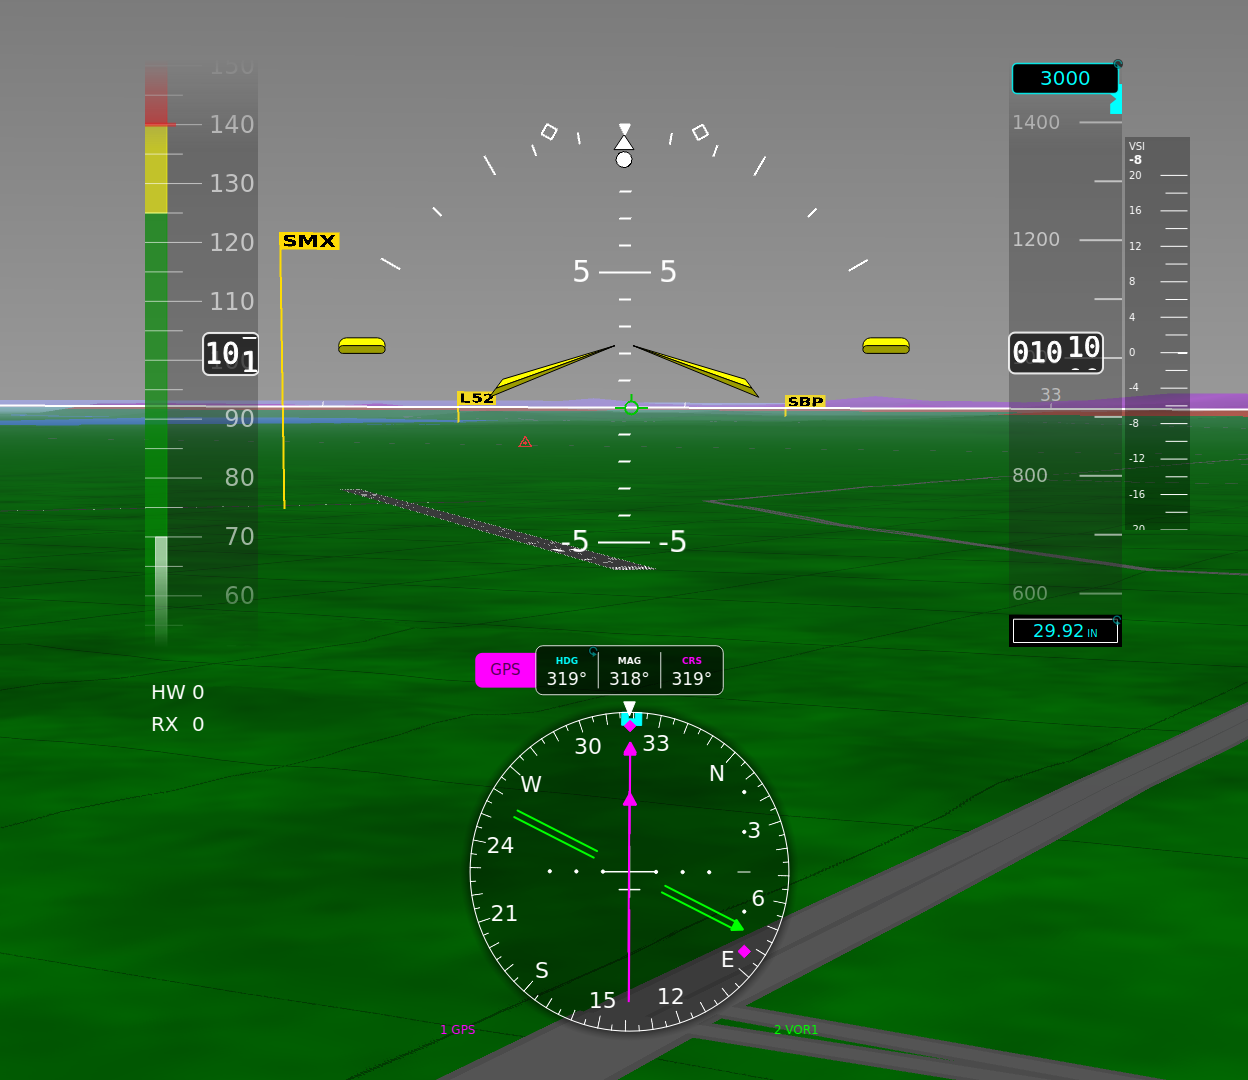
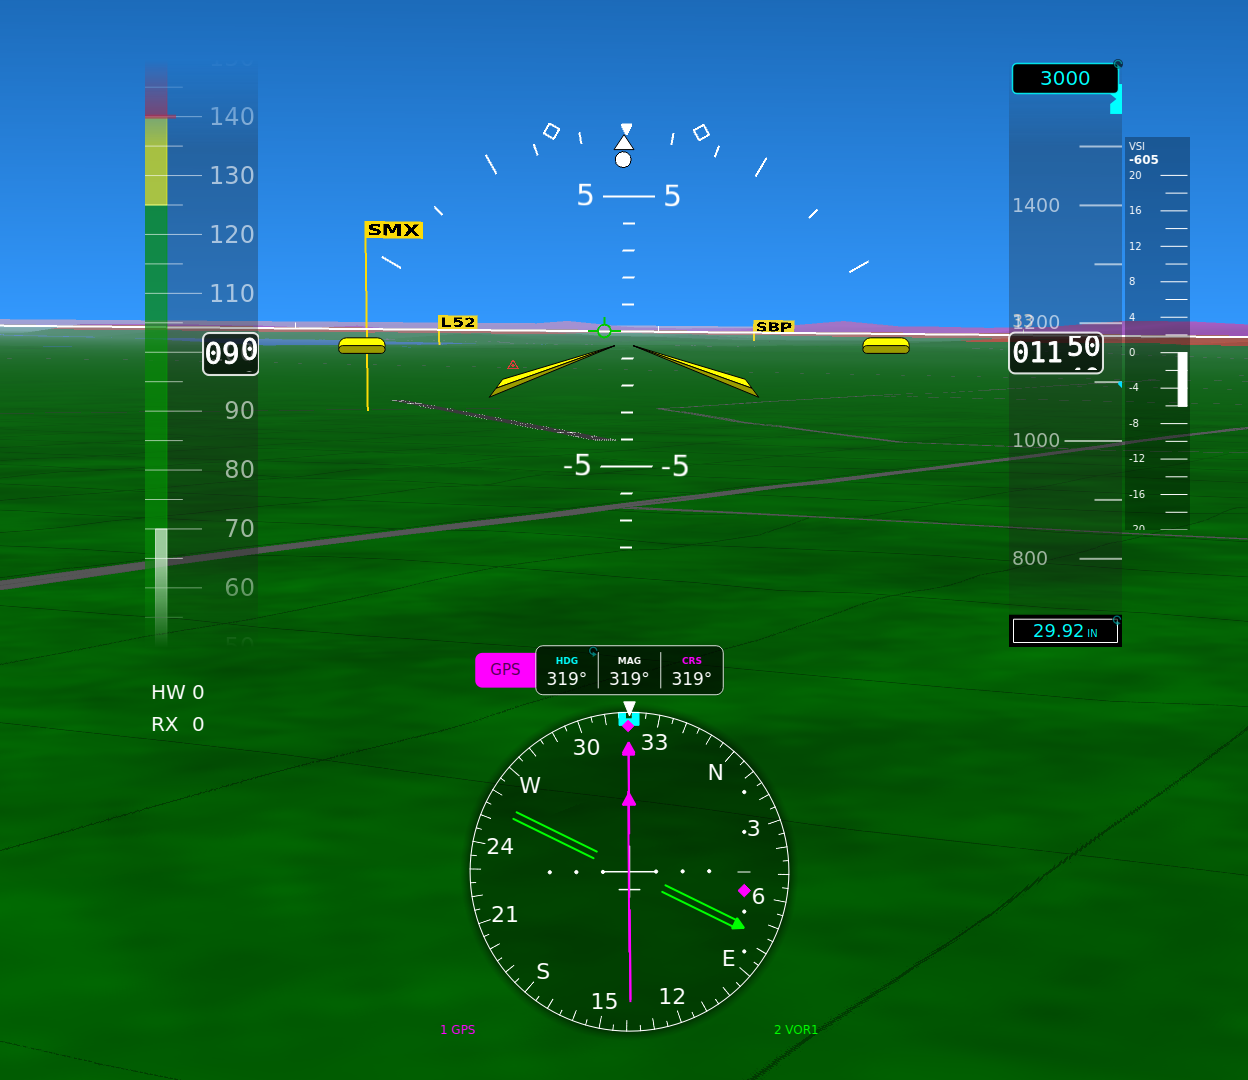
docs(wiki): blue-sky bench captures for the panel, attitude and air-data pages
Re-flown on sim-bench session a9055711e732 after the bench began sending
ALAT, so the attitude inputs are fresh and the sky draws blue. Same file
names, same scenes; captions re-read from the new frames. Drops the
attitude page's grey-sky note and points the READMEs at the new frames and
the flight's event log.

diff --git a/docs/images/tapes/README.md b/docs/images/tapes/README.md
@@ -4,31 +4,27 @@ For [Airspeed, Altitude and Vertical Speed](../../wiki/Airspeed-Altitude-and-Ver
 
 | File | Source frame | Crop box | Scale |
 |---|---|---|---|
-| `bench_airspeed_tape.png` | `052133_chg_FPLACTLEG_WPNAME_WINCH.png` | (130, 50, 270, 660) | 2, nearest-neighbour |
-| `bench_altitude_climb.png` | `052133_chg_FPLACTLEG_WPNAME_WINCH.png` | (1000, 50, 1200, 660) | 2, nearest-neighbour |
-| `bench_altitude_altsel_departed.png` | `053037_tick.png` | (1000, 50, 1200, 660) | 2, nearest-neighbour |
+| `bench_airspeed_tape.png` | `105321_chg_FPLACTLEG_WPNAME_WINCH.png` | (130, 50, 270, 660) | 2, nearest-neighbour |
+| `bench_altitude_climb.png` | `105321_chg_FPLACTLEG_WPNAME_WINCH.png` | (1000, 50, 1200, 660) | 2, nearest-neighbour |
+| `bench_altitude_altsel_departed.png` | `110201_tick.png` | (1000, 50, 1200, 660) | 2, nearest-neighbour |
 
 The page also uses two existing rendered sets, with their own READMEs: [`../aer3915_altsel/`](../aer3915_altsel/) and [`../aer3914_baro_box/`](../aer3914_baro_box/).
 
 ## Where they came from
 
 Every picture is cropped from a full-screen grab of the simulator bench (the
-Beelink, X11, 1920 x 1080) during sim-bench session `8f9eb80b0daa` on
-2026-11-07, 05:11-05:33 UTC. The bench was flying the KSMX RNAV (GPS) RWY 30
+Beelink, X11, 1920 x 1080) during sim-bench session `a9055711e732` on
+2026-11-07, 10:44-11:05 UTC. The bench was flying the KSMX RNAV (GPS) RWY 30
 with its missed approach and the WINCH hold, on pyEFIS `dev` at `4c4f4dc` (the same code as `980497e`) with
-its configurator panel (`screens/managed.yaml`). The follower that took the
-grabs, its event log and the FIX keys logged at every grab are in
-[`../hsi/bench_flight/`](../hsi/bench_flight/); the source frame names below are
-the names in its `keys.jsonl`.
+its configurator panel (`screens/managed.yaml`). The grabs were taken by
+[`../hsi/bench_flight/docs_flight.py`](../hsi/bench_flight/docs_flight.py), run
+with that session id and the sim-bench service URL. Its event log is
+[`../hsi/bench_flight/flight2_events.log`](../hsi/bench_flight/flight2_events.log); the source frame names below are the
+names it gave each grab.
 
-The grabs used `ffmpeg -f x11grab`. About half of that night's frames show the
+The grabs used `ffmpeg -f x11grab`. Some of these grabs can show the
 previous grab's state, so every caption is read from the picture's own
 readouts, never from the logged keys.
-
-**Grey sky.** In every frame the sky is grey, not blue. The bench's X-Plane
-connection does not send `ALAT`, so that attitude input stays flagged old, and
-pyEFIS greys the sky while any attitude input is old or bad
-(`src/pyefis/instruments/ai/ai_widget.py:586-590`).
 
 ## Regenerate
 

diff --git a/docs/images/attitude/README.md b/docs/images/attitude/README.md
@@ -4,29 +4,25 @@ For [Attitude and Synthetic Vision](../../wiki/Attitude-and-Synthetic-Vision.md)
 
 | File | Source frame | Crop box | Scale |
 |---|---|---|---|
-| `bench_turn_over_water.png` | `053037_tick.png` | (0, 0, 1248, 1080) | 1 |
-| `bench_terrain_clearance.png` | `051503_tick.png` | (0, 0, 1248, 1080) | 1 |
-| `bench_final_runway.png` | `051744_tick.png` | (0, 0, 1248, 1080) | 1 |
+| `bench_turn_over_water.png` | `110201_tick.png` | (0, 0, 1248, 1080) | 1 |
+| `bench_terrain_clearance.png` | `104649_tick.png` | (0, 0, 1248, 1080) | 1 |
+| `bench_final_runway.png` | `104930_tick.png` | (0, 0, 1248, 1080) | 1 |
 
 ## Where they came from
 
 Every picture is cropped from a full-screen grab of the simulator bench (the
-Beelink, X11, 1920 x 1080) during sim-bench session `8f9eb80b0daa` on
-2026-11-07, 05:11-05:33 UTC. The bench was flying the KSMX RNAV (GPS) RWY 30
+Beelink, X11, 1920 x 1080) during sim-bench session `a9055711e732` on
+2026-11-07, 10:44-11:05 UTC. The bench was flying the KSMX RNAV (GPS) RWY 30
 with its missed approach and the WINCH hold, on pyEFIS `dev` at `4c4f4dc` (the same code as `980497e`) with
-its configurator panel (`screens/managed.yaml`). The follower that took the
-grabs, its event log and the FIX keys logged at every grab are in
-[`../hsi/bench_flight/`](../hsi/bench_flight/); the source frame names below are
-the names in its `keys.jsonl`.
+its configurator panel (`screens/managed.yaml`). The grabs were taken by
+[`../hsi/bench_flight/docs_flight.py`](../hsi/bench_flight/docs_flight.py), run
+with that session id and the sim-bench service URL. Its event log is
+[`../hsi/bench_flight/flight2_events.log`](../hsi/bench_flight/flight2_events.log); the source frame names below are the
+names it gave each grab.
 
-The grabs used `ffmpeg -f x11grab`. About half of that night's frames show the
+The grabs used `ffmpeg -f x11grab`. Some of these grabs can show the
 previous grab's state, so every caption is read from the picture's own
 readouts, never from the logged keys.
-
-**Grey sky.** In every frame the sky is grey, not blue. The bench's X-Plane
-connection does not send `ALAT`, so that attitude input stays flagged old, and
-pyEFIS greys the sky while any attitude input is old or bad
-(`src/pyefis/instruments/ai/ai_widget.py:586-590`).
 
 ## Regenerate
 

diff --git a/docs/wiki/Attitude-and-Synthetic-Vision.md b/docs/wiki/Attitude-and-Synthetic-Vision.md
@@ -8,12 +8,6 @@ terrain is `atitude_indicator`.
 
 ![The bench in a left turn in the WINCH hold, over the sea at about 4,000 ft: pitch ladder and bank scale tilted, the garmin aircraft symbol, standard-rate marks on the bank arc, the coastline and terrain beyond, and the 33 heading mark on the horizon](../images/attitude/bench_turn_over_water.png)
 
-**Every bench picture on this page has a grey sky.** The simulator bench does
-not send lateral acceleration (`ALAT`) to fix-gateway, so that input stays
-flagged old, and pyEFIS greys the sky while any attitude input is old or bad
-(see [When data is missing](#when-data-is-missing)). With all inputs good, the
-sky is a blue gradient.
-
 ## Reading it
 
 | Element | What it shows |
@@ -48,7 +42,7 @@ against groundspeed). Sideways, it shows drift: track against heading.
 
 The terrain ahead is coloured by how far it is below you.
 
-![The bench on the RNAV 30 approach to KSMX at about 2,100 ft: most of the terrain ahead is red, because the bench panel sets its warning band to 1,500 ft of clearance. Airport flags for SMX, L52 and SBP stand on the horizon](../images/attitude/bench_terrain_clearance.png)
+![The bench on the RNAV 30 approach to KSMX at about 2,200 ft: most of the terrain ahead is red, because the bench panel sets its warning band to 1,500 ft of clearance. Airport flags for L52 and SMX stand on the horizon](../images/attitude/bench_terrain_clearance.png)
 
 | Colour | Terrain is |
 |---|---|
@@ -67,7 +61,7 @@ elevation is drawn green, so a normal approach does not paint the whole pattern
 red. Terrain higher than that keeps its amber and red, and magenta always
 shows.
 
-![The bench near the missed approach point at KSMX, about 1,000 ft: within 5 nm of the field the low terrain is green, the runway is drawn to true size, and a road runs across the foreground](../images/attitude/bench_final_runway.png)
+![The bench near the missed approach point at KSMX, descending through about 1,150 ft: within 5 nm of the field the low terrain is green, the runway is drawn to true size, and a road runs across the foreground](../images/attitude/bench_final_runway.png)
 
 **What else is drawn**, each from its own navdata pack:
 

diff --git a/docs/images/panel/README.md b/docs/images/panel/README.md
@@ -4,27 +4,23 @@ For [The Panel at a Glance](../../wiki/The-Panel-at-a-Glance.md).
 
 | File | Source frame | Crop box | Scale |
 |---|---|---|---|
-| `bench_panel_climb.png` | `052133_chg_FPLACTLEG_WPNAME_WINCH.png` | full frame | 1 |
+| `bench_panel_climb.png` | `105321_chg_FPLACTLEG_WPNAME_WINCH.png` | full frame | 1 |
 
 ## Where they came from
 
 Every picture is cropped from a full-screen grab of the simulator bench (the
-Beelink, X11, 1920 x 1080) during sim-bench session `8f9eb80b0daa` on
-2026-11-07, 05:11-05:33 UTC. The bench was flying the KSMX RNAV (GPS) RWY 30
+Beelink, X11, 1920 x 1080) during sim-bench session `a9055711e732` on
+2026-11-07, 10:44-11:05 UTC. The bench was flying the KSMX RNAV (GPS) RWY 30
 with its missed approach and the WINCH hold, on pyEFIS `dev` at `4c4f4dc` (the same code as `980497e`) with
-its configurator panel (`screens/managed.yaml`). The follower that took the
-grabs, its event log and the FIX keys logged at every grab are in
-[`../hsi/bench_flight/`](../hsi/bench_flight/); the source frame names below are
-the names in its `keys.jsonl`.
+its configurator panel (`screens/managed.yaml`). The grabs were taken by
+[`../hsi/bench_flight/docs_flight.py`](../hsi/bench_flight/docs_flight.py), run
+with that session id and the sim-bench service URL. Its event log is
+[`../hsi/bench_flight/flight2_events.log`](../hsi/bench_flight/flight2_events.log); the source frame names below are the
+names it gave each grab.
 
-The grabs used `ffmpeg -f x11grab`. About half of that night's frames show the
+The grabs used `ffmpeg -f x11grab`. Some of these grabs can show the
 previous grab's state, so every caption is read from the picture's own
 readouts, never from the logged keys.
-
-**Grey sky.** In every frame the sky is grey, not blue. The bench's X-Plane
-connection does not send `ALAT`, so that attitude input stays flagged old, and
-pyEFIS greys the sky while any attitude input is old or bad
-(`src/pyefis/instruments/ai/ai_widget.py:586-590`).
 
 ## Regenerate
 

diff --git a/docs/wiki/Airspeed-Altitude-and-Vertical-Speed.md b/docs/wiki/Airspeed-Altitude-and-Vertical-Speed.md
@@ -5,7 +5,7 @@ and an altitude tape on the right, with a vertical speed scale beside the
 altitude tape. Their instrument types are `airspeed_tape`, `altimeter_tape`
 and `altimeter_trend_tape`.
 
-![The bench's airspeed tape (left) and altitude tape with VSI (right), climbing out at about 95 kt and 600 ft/min, 2x nearest-neighbour. The selected altitude is 3000 at the top of the altitude tape, with its cyan bug at 3000 on the scale; the altimeter setting is 29.92 at the bottom](../images/tapes/bench_airspeed_tape.png) ![The bench's altitude tape and VSI in the same climb, 2x nearest-neighbour](../images/tapes/bench_altitude_climb.png)
+![The bench's airspeed tape (left) and altitude tape with VSI (right), climbing out at about 95 kt and 640 ft/min, 2x nearest-neighbour. The selected altitude is 3000 at the top of the altitude tape, with its cyan bug at 3000 on the scale; the altimeter setting is 29.92 at the bottom](../images/tapes/bench_airspeed_tape.png) ![The bench's altitude tape and VSI in the same climb, 2x nearest-neighbour](../images/tapes/bench_altitude_climb.png)
 
 Both tapes scroll behind a fixed readout box. The pictures are from the
 simulator bench; its panel sets **Fade tape edges** on, so the scales fade into
@@ -120,7 +120,7 @@ already shows `BARO`, the tape leaves its box off.
 
 The scale beside the altitude tape shows vertical speed, `VS`, in ft/min. A
 white bar grows from zero to the present rate. The number under the `VSI` label
-at the top is the rate itself: `602` in the climb picture above. Scale labels
+at the top is the rate itself: `638` in the climb picture above. Scale labels
 are in hundreds, so `20` is 2,000 ft/min.
 
 **Range** sets full scale up and down: 2,500 ft/min by default, 2,000 on the

diff --git a/docs/wiki/The-Panel-at-a-Glance.md b/docs/wiki/The-Panel-at-a-Glance.md
@@ -9,7 +9,7 @@ knob. The instruments each have their own page, linked below.
 > instruments, not in place of them. It shows what fix-gateway feeds it. When
 > a source is lost it flags the value, but it cannot invent data.
 
-![The bench panel climbing out on the missed approach at about 95 kt and 600 ft/min: synthetic vision with the airspeed tape, altitude tape and VSI, the wind readout, the HSI bottom centre, and the tab column on the right showing the moving map](../images/panel/bench_panel_climb.png)
+![The bench panel climbing out on the missed approach at about 95 kt and 640 ft/min: synthetic vision with the airspeed tape, altitude tape and VSI, the wind readout, the HSI bottom centre, and the tab column on the right showing the moving map](../images/panel/bench_panel_climb.png)
 
 ## What is where
 
